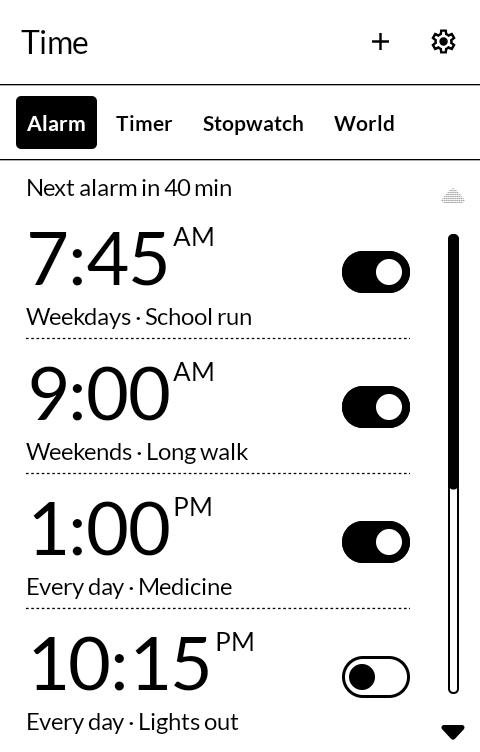
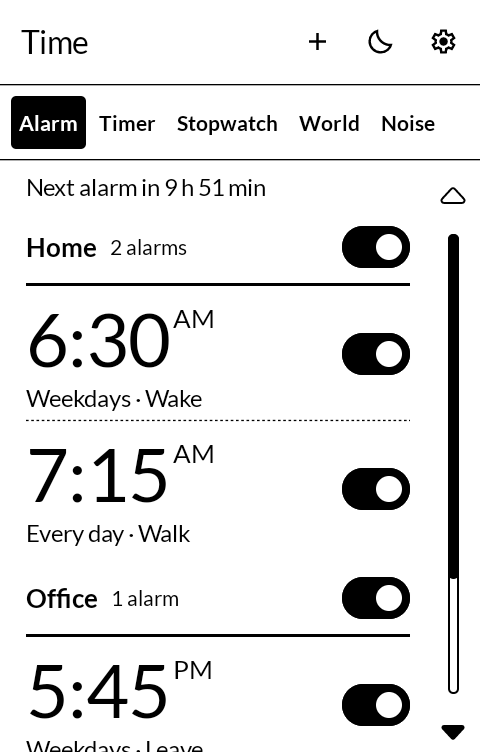
README: alarms and world clock shots of v0.2.33, and the sleep noise and night clock added, with fake data

diff --git a/README.md b/README.md
@@ -9,10 +9,11 @@ Android 12 device.
 
 | | |
 |---|---|
-| ![The alarms](screenshots/1-alarms.png) | ![An alarm ringing over the lock screen, with the weather from Sky under it](screenshots/2-ringing.png) |
+| ![The alarms, in groups](screenshots/1-alarms.png) | ![An alarm ringing over the lock screen, with the weather from Sky under it](screenshots/2-ringing.png) |
 | ![Setting an alarm](screenshots/3-alarm.png) | ![Two timers running](screenshots/4-timers.png) |
 | ![The stopwatch with laps](screenshots/5-stopwatch.png) | ![The world clock](screenshots/6-world.png) |
 | ![Alarms in two groups, Home and Office](screenshots/7-groups.png) | ![What a group's name offers: skip the next one, or rename the group](screenshots/8-group.png) |
+| ![Noise for sleep, with when it stops](screenshots/9-noise.png) | ![The night clock, turned sideways](screenshots/10-night-clock.png) |
 
 ## What it does
 
